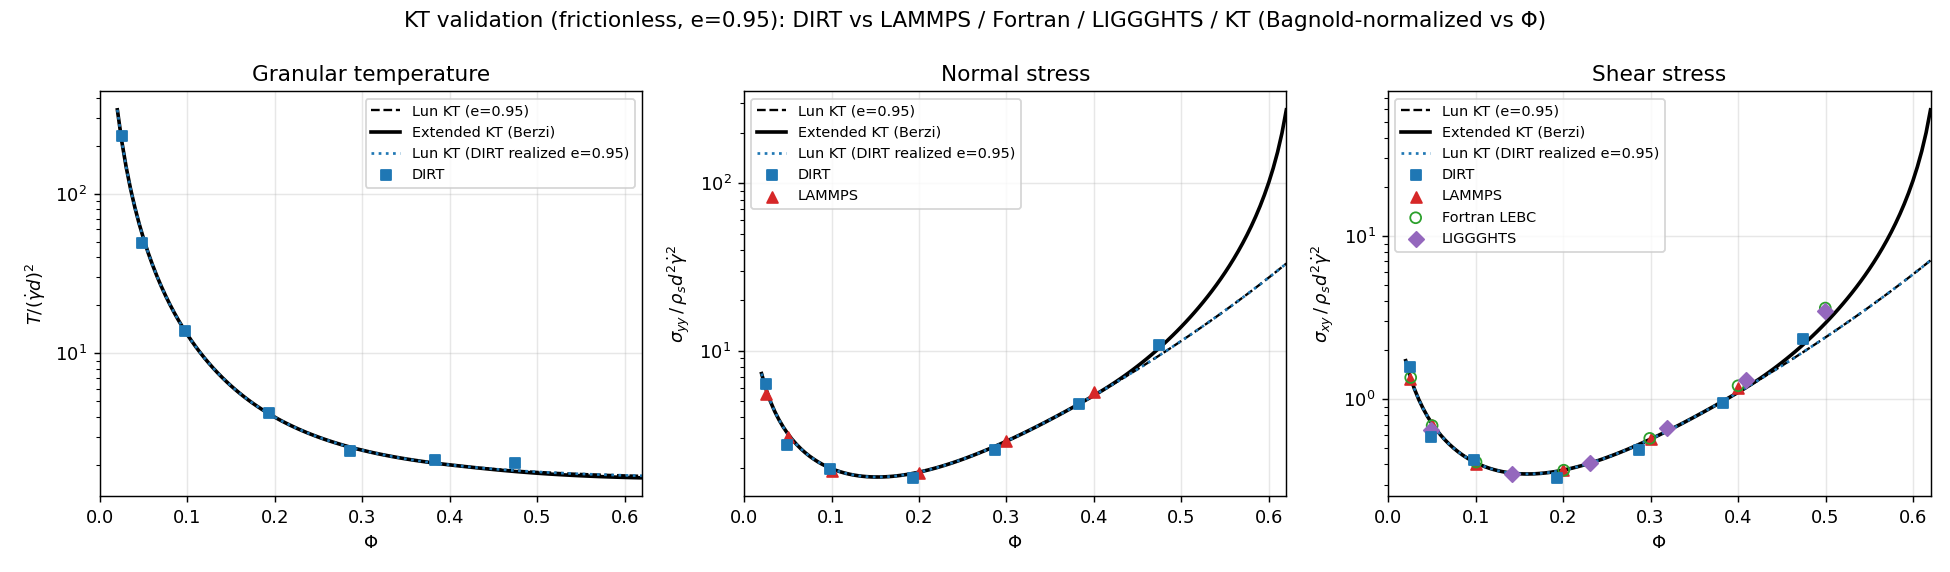
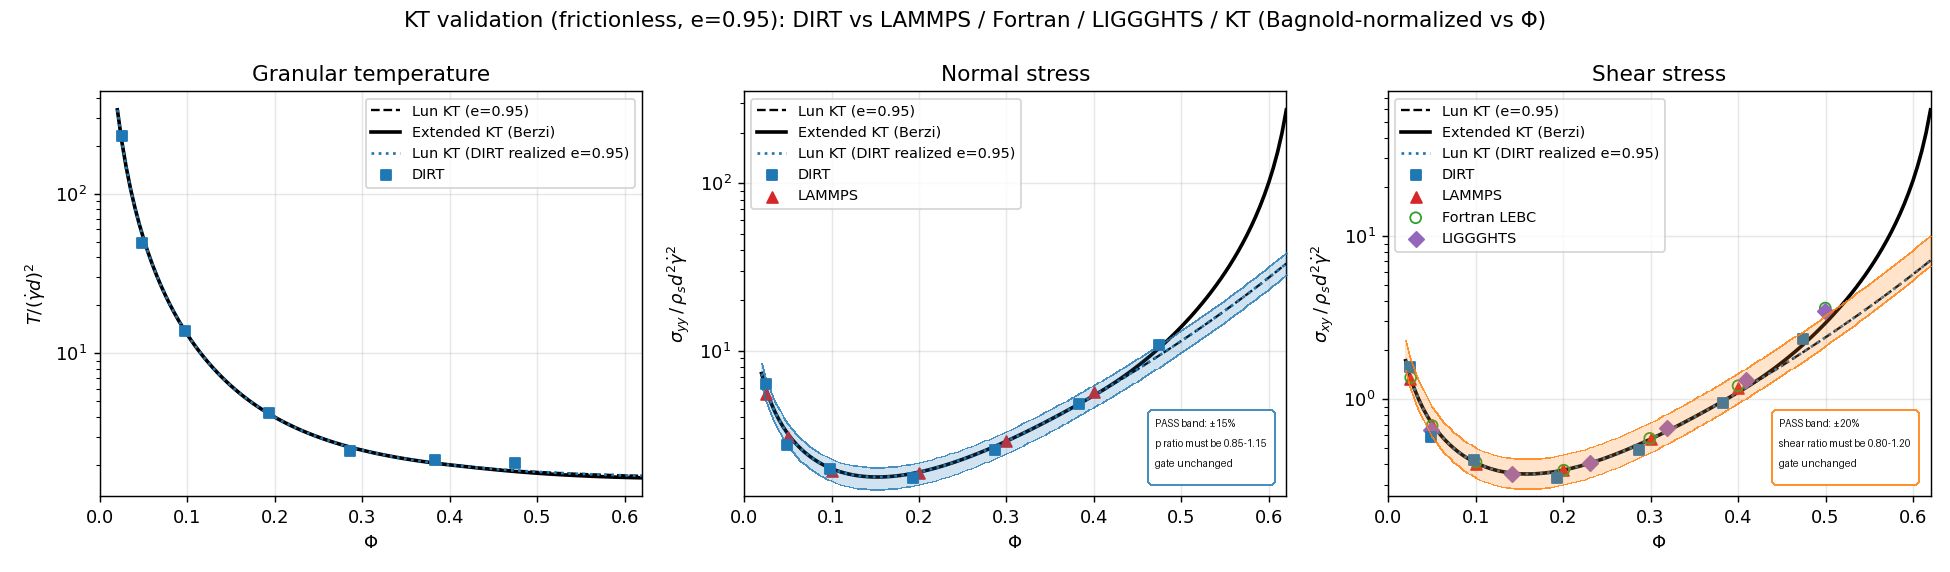
Show LEBC shear validation pass bands

diff --git a/examples/bench_lebc_shear/sweep.py b/examples/bench_lebc_shear/sweep.py
@@ -586,7 +586,10 @@ def graph():
         axT.set_ylabel(r"$T/(\dot\gamma d)^2$"); axT.set_title("Granular temperature")
 
         # ── normal stress σ_yy/(ρ_s d²γ̇²) (references report σ_yy) ──
-        axp.plot(phi_line, [v[1] for v in lun], "k--", lw=1.3, label=f"Lun KT (e={e0})")
+        lun_p = [v[1] for v in lun]
+        axp.fill_between(phi_line, [0.85 * y for y in lun_p], [1.15 * y for y in lun_p],
+                         color="tab:blue", alpha=0.12, label="PASS band: ±15%")
+        axp.plot(phi_line, lun_p, "k--", lw=1.3, label=f"Lun KT (e={e0})")
         axp.plot(phi_line, [v[1] for v in ekt], "k-", lw=2, label="Extended KT (Berzi)")
         axp.plot(phi_line, [v[1] for v in lun_real], ":", c="tab:blue", lw=1.5, label=f"Lun KT (DIRT realized e={e_real})")
         axp.scatter([p["phi"] for p in kt], [p["syy"] / bag(p) for p in kt],
@@ -594,9 +597,15 @@ def graph():
         if refs["lammps"][0]:
             axp.scatter(refs["lammps"][0], refs["lammps"][2], c="tab:red", marker="^", zorder=3, label="LAMMPS")
         axp.set_ylabel(r"$\sigma_{yy}\,/\,\rho_s d^2 \dot\gamma^2$"); axp.set_title("Normal stress")
+        axp.text(0.98, 0.04, f"Gate: {p_ok}/{len(kt)} within ±15%",
+                 transform=axp.transAxes, ha="right", va="bottom", fontsize=8,
+                 bbox=dict(facecolor="white", edgecolor="0.7", alpha=0.85, pad=3))
 
         # ── shear stress σ_xy/(ρ_s d²γ̇²) (all codes) ──
-        axs.plot(phi_line, [v[0] for v in lun], "k--", lw=1.3, label=f"Lun KT (e={e0})")
+        lun_s = [v[0] for v in lun]
+        axs.fill_between(phi_line, [0.80 * y for y in lun_s], [1.20 * y for y in lun_s],
+                         color="tab:orange", alpha=0.12, label="PASS band: ±20%")
+        axs.plot(phi_line, lun_s, "k--", lw=1.3, label=f"Lun KT (e={e0})")
         axs.plot(phi_line, [v[0] for v in ekt], "k-", lw=2, label="Extended KT (Berzi)")
         axs.plot(phi_line, [v[0] for v in lun_real], ":", c="tab:blue", lw=1.5, label=f"Lun KT (DIRT realized e={e_real})")
         axs.scatter([p["phi"] for p in kt], [abs(p["sxy"]) / bag(p) for p in kt],
@@ -606,6 +615,9 @@ def graph():
         axs.scatter(refs["fortran"][0], refs["fortran"][1], facecolors="none", edgecolors="tab:green", marker="o", zorder=3, label="Fortran LEBC")
         axs.scatter(refs["liggghts"][0], refs["liggghts"][1], c="tab:purple", marker="D", zorder=3, label="LIGGGHTS")
         axs.set_ylabel(r"$\sigma_{xy}\,/\,\rho_s d^2 \dot\gamma^2$"); axs.set_title("Shear stress")
+        axs.text(0.98, 0.04, f"Gate: {s_ok}/{len(kt)} within ±20%",
+                 transform=axs.transAxes, ha="right", va="bottom", fontsize=8,
+                 bbox=dict(facecolor="white", edgecolor="0.7", alpha=0.85, pad=3))
 
         for ax in (axT, axp, axs):
             ax.set_xlabel("Φ"); ax.set_yscale("log"); ax.grid(True, alpha=0.3)

diff --git a/examples/bench_lebc_shear/README.md b/examples/bench_lebc_shear/README.md
@@ -94,8 +94,9 @@ near random-close-packing, is reachable. The sweep runs two families:
 ![Kinetic-theory validation](plots/kt_validation.png)
 
 *Frictionless LEBC shear: DIRT points over the Lun / extended kinetic-theory curves
-and independent LAMMPS / Fortran / LIGGGHTS references. PASS means at least 60% of
-KT points are within the printed 15% normal-stress and 20% shear-stress bands.*
+and independent LAMMPS / Fortran / LIGGGHTS references. Shaded bands show the
+unchanged PASS gate: at least 60% of KT points within 15% for normal stress and
+20% for shear stress.*
 
 ![mu(I) fit](plots/mu_of_I.png)
 

diff --git a/examples/VALIDATION.md b/examples/VALIDATION.md
@@ -548,8 +548,8 @@ closure used by downstream continuum calibration.
 ![Kinetic-theory validation](bench_lebc_shear/plots/kt_validation.png)
 
 *DIRT frictionless points over the kinetic-theory and cross-code references. The
-printed gate is explicit: at least 60% of points must be within 15% for normal stress
-and 20% for shear stress.*
+shaded bands show the unchanged graph gate: at least 60% of points must be within
+15% for normal stress and 20% for shear stress.*
 
 ![mu(I) fit](bench_lebc_shear/plots/mu_of_I.png)
 
